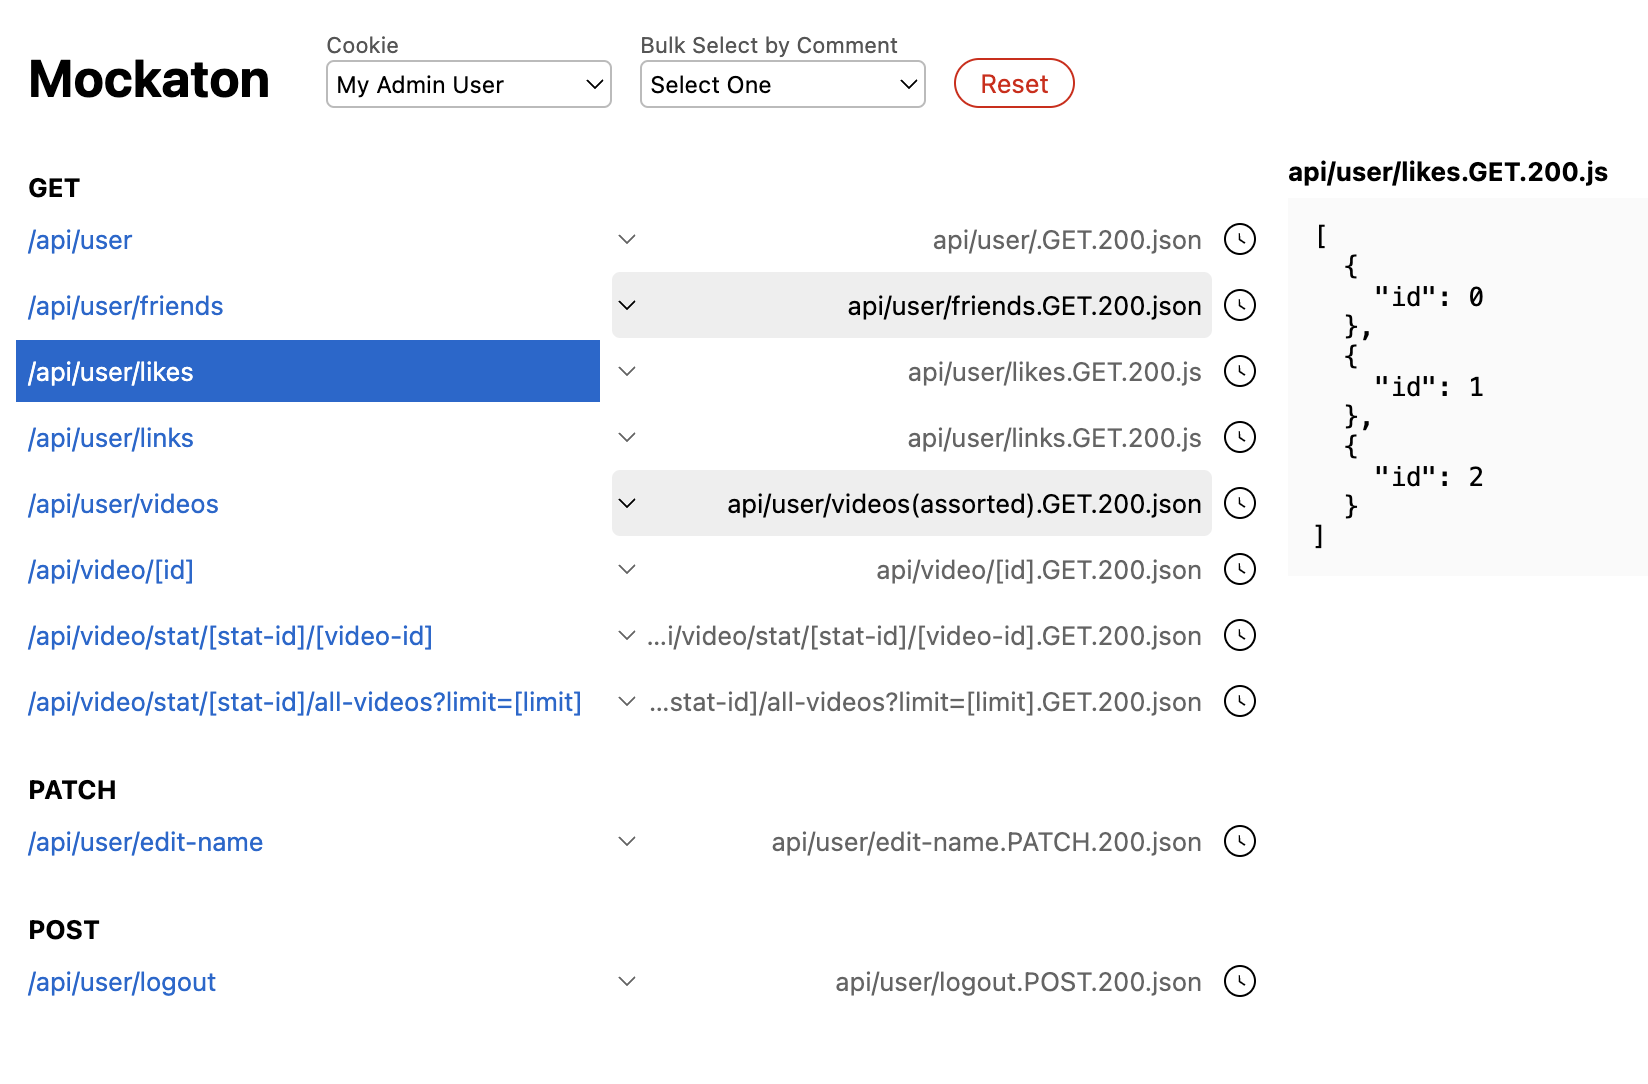
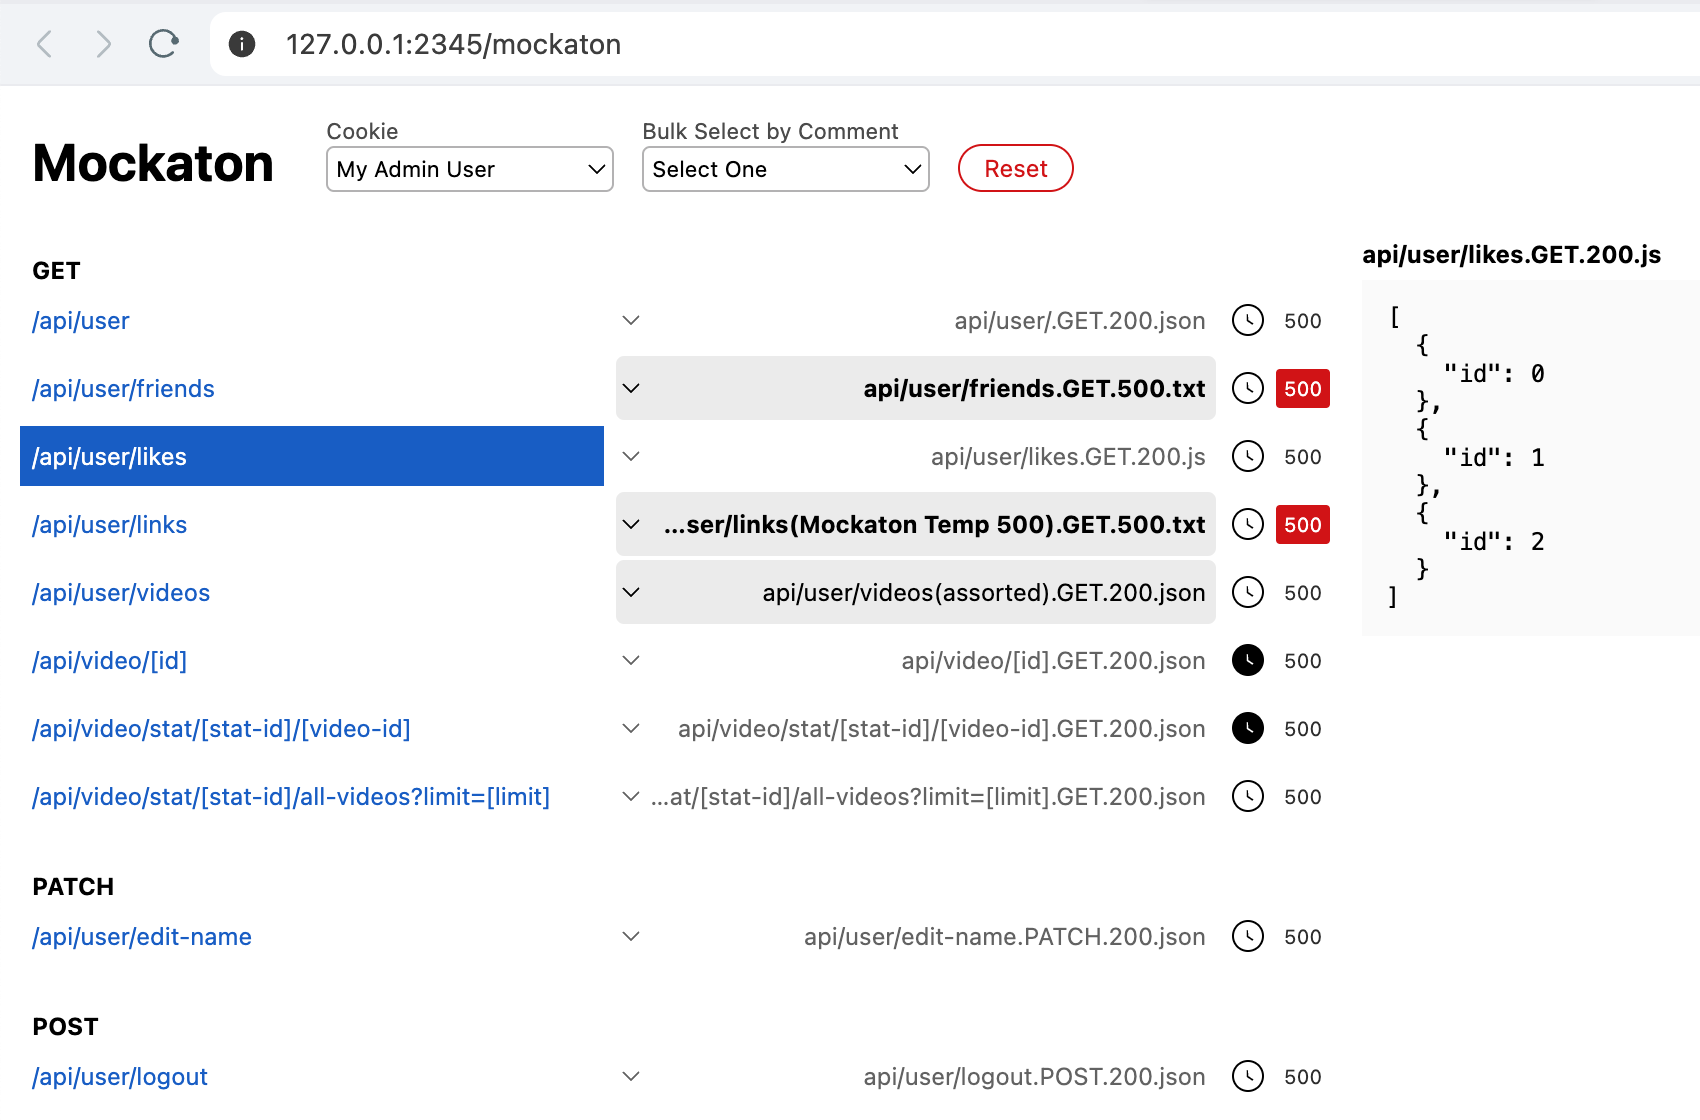
v4.0.1 fix 500 toggler

diff --git a/src/Dashboard.js b/src/Dashboard.js
@@ -26,7 +26,7 @@ const CSS = {
 
 	bold: 'bold',
 	chosen: 'chosen',
-	status4xx: 'status4xx',
+	status4xx: 'status4xx'
 }
 
 const r = createElement
@@ -266,7 +266,7 @@ function InternalServerErrorToggler({ broker }) {
 						method: 'PATCH',
 						body: JSON.stringify({
 							[DF.file]: event.currentTarget.checked
-								? items.find(f => f.includes(DEFAULT_500_COMMENT))
+								? items.find(f => Route.parseFilename(f).status === 500)
 								: items[0]
 						})
 					}).then(init)
